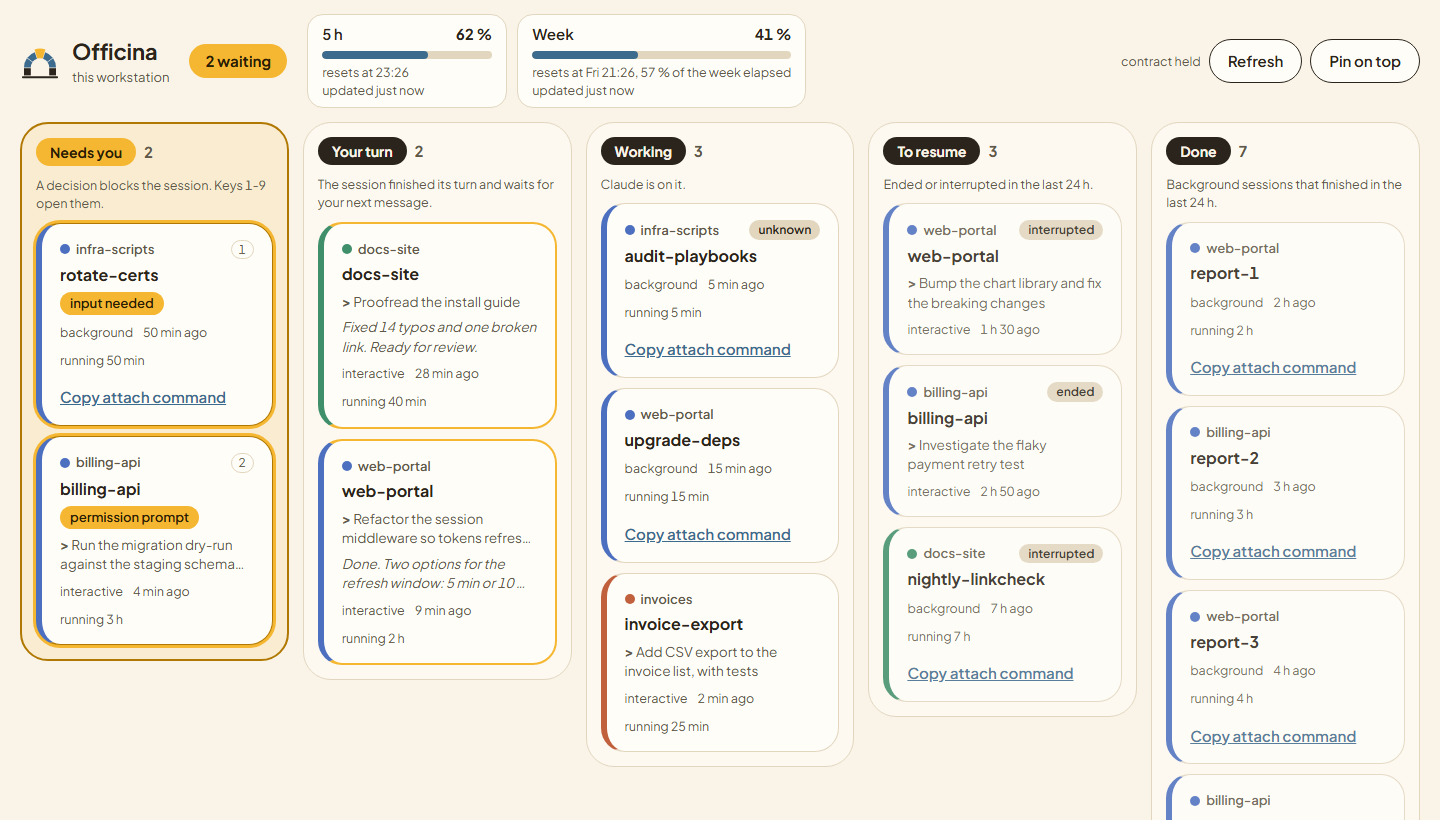
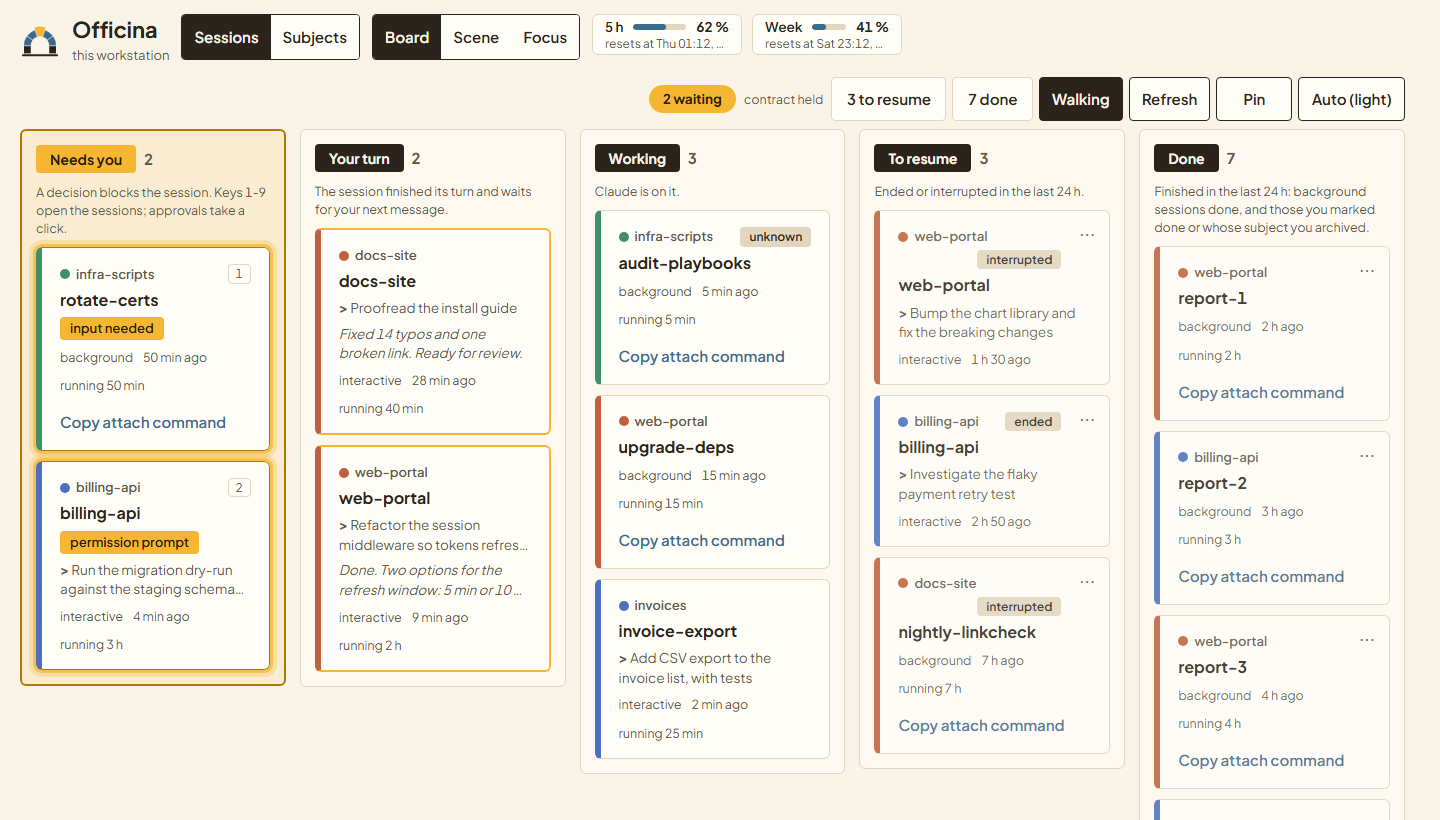
docs(ui): describe moving ended cards, the one header, wide screens and the minimum size
README: the Done column's new meaning, how to move an ended card (drag,
menu, Undo, Restore), the minimum window size, wide screens, the header
the same in every view with To resume and Done in it, the transitions,
the docked session file. The README assets are rendered again from the
current build. CHANGELOG [Unreleased] records story 4.15.

Changed region(s): [[0.0, 0.0, 0.9688, 1.0]]

diff --git a/README.md b/README.md
@@ -64,7 +64,11 @@ Claude Code updates itself, so Officina checks, for each version it runs under, 
 | **Your turn** | An interactive session finished its turn and waits for your next message. Even when it asked you something in plain text, Claude Code reports it as idle, so it lands here, never in Done. |
 | **Working** | Claude is on it. A session whose state Officina cannot tell shows here with an `unknown` badge. |
 | **To resume** | Ended, stopped or interrupted in the last 24 hours. |
-| **Done** | Background sessions that finished in the last 24 hours. Collapsed beyond five. |
+| **Done** | Finished in the last 24 hours: background sessions Claude Code reports done, and sessions you marked done or whose subject you archived, each tagged so. Collapsed beyond five. |
+
+### Moving an ended card
+
+An ended card can be dragged onto **Done** (you mark it done), back onto **To resume**, or onto the **Discard** target that shows at the bottom of the window while you drag, for a session that was never real work, a ten-second test for instance. Escape cancels a drag. The card's menu, at its top right, does the same from the keyboard: Enter or Down opens it, the arrows move, Enter chooses, Escape closes it. A note then says what was done, with **Undo**; after a menu choice the focus goes to it, and back to the card after an undo. Your verdict is recorded in the registry, never inferred: it covers what the session did before it, so a session that comes back to life is placed by its own state again. A discarded session leaves the board and the scene; **Show archived subjects and discarded sessions** in the Subjects view lists it with **Restore**. A card in Done because its subject was archived goes back to To resume by reopening that subject, which you archive again from the Subjects view. Live cards do not move: their column is what Claude Code reports.
 
 ### Bringing a session to the front
 
@@ -127,7 +131,7 @@ While the quota has no fresh data, `officina doctor` prints the whole `"statusLi
 
 ### Starting the board
 
-Run `officina-app.exe`. A second launch focuses the existing window. Keep it on a second screen, or press **Pin on top**. The window title shows `Officina (2 waiting)` whenever something waits on you.
+Run `officina-app.exe`. A second launch focuses the existing window. Keep it on a second screen, or press **Pin** to keep it on top. The window cannot be made smaller than 1140 x 820: the size that keeps the header on two lines and the scene's base floor whole. On a wide screen the board shows cards side by side in each column, and the Subjects and Relay views keep to a readable width. The window title shows `Officina (2 waiting)` whenever something waits on you.
 
 | Key | Action |
 |---|---|
@@ -495,7 +499,7 @@ v0.4 draws the board's sessions as the employees of a small company.
 
 ### Board, Scene and Focus
 
-The window's first view is now called **Sessions**; it has three modes, **Board**, **Scene** and **Focus**, chosen in the header's mode switch. `m` switches between Board and Scene, `f` turns Focus on and, pressed again, brings back the mode you had (a held key switches once); `m` from Focus leaves it for the other of Board and Scene. **Board** stays the default until you have chosen Scene for ten working days; the mode you choose is kept for the next start, Focus included. Digit keys 1 to 9 open the Needs you sessions in every mode. `m`, `f` and the digits act in the Sessions view only: in the Subjects view, `f` still sets a triage verdict. The alert band and the banners stay above the sessions area in every mode. In Scene mode the header keeps to one line, so the scene keeps its height.
+The window's first view is now called **Sessions**; it has three modes, **Board**, **Scene** and **Focus**, chosen in the header's mode switch. `m` switches between Board and Scene, `f` turns Focus on and, pressed again, brings back the mode you had (a held key switches once); `m` from Focus leaves it for the other of Board and Scene. **Board** stays the default until you have chosen Scene for ten working days; the mode you choose is kept for the next start, Focus included. Digit keys 1 to 9 open the Needs you sessions in every mode. `m`, `f` and the digits act in the Sessions view only: in the Subjects view, `f` still sets a triage verdict. The alert band and the banners stay above the sessions area in every mode. The header is the same in every view and mode, the same controls at the same places, on one line on a Full HD screen, so the scene keeps its height. Views, modes, cards, menus and panels fade or slide in for about a sixth of a second as they come and go; with Windows' reduced-motion setting on, they appear at once.
 
 **Focus** hides the board and the scene and lists only what waits for you: first "N approvals waiting" when there are some, which opens them in Board mode; then the Needs you sessions, numbered as on the board and marked "Alert" with the cause for one in alert ("last known" while its data is unknown); then the Your turn sessions; then how many sessions are working. A row brings its session to front as a board card does, with the outcome in the row. Nothing in Focus moves: no scene, no halo, no animation.
 
@@ -515,15 +519,15 @@ Nothing moves while nothing changes: an employee moves only when the board chang
 
 When the board changes an employee's place, it gets up and walks there along the corridors, through its room's door, at a walking pace, and sits down when its place is a seat; its halo waits until it has arrived. A new session comes in through the entrance, fading in, and walks to its place; an ended one walks out through the entrance and fades. Once everyone has arrived nothing moves, and the scene does no work until the next change. Opening the window, or switching to Scene, shows everyone already at their place; so does a window brought back from behind another one.
 
-The header's **Walking** toggle, shown in Scene mode and kept for the next start, turns walking off: an employee then glides straight to its new place in about a third of a second, and a new or ended session fades in or out where it stands. With the system's reduced-motion setting on, every employee is placed at once and nothing fades. Walking is on by default; the workstation's CPU measurement of the release decides whether it stays so.
+The header's **Walking** toggle, kept for the next start, turns walking off: an employee then glides straight to its new place in about a third of a second, and a new or ended session fades in or out where it stands. With the system's reduced-motion setting on, every employee is placed at once and nothing fades. Walking is on by default; the workstation's CPU measurement of the release decides whether it stays so.
 
 ### Acting from the scene
 
-Every employee is a button: hover it or tab to it and its name shows above it. Click it, or press Enter or Space, and its **file** opens at the right edge of the sessions area, over the scene without resizing it: the project (and "high priority" when the floor file says so), its number when it is one of the first nine waiting, where it is, its state with what it waits on, since when it waits ("since unknown" when Officina did not see the wait start), why it is in alert ("last known" while the data is unknown), its subject, its last prompt and the head and tail of its last answer. The file's actions are the board card's, with the same outcomes: **Bring to front** (it has the focus, so Enter then Enter brings a session forward from the keyboard), "Wrong window?", and "Copy attach command" for a background session. A session waiting on a relay approval shows the request and an **Open in Board** button: approvals are approved on their cards, with the pointer. Escape closes the file and puts the focus back on the employee, wherever it now stands; the file closes by itself when the session leaves the board.
+Every employee is a button: hover it or tab to it and its name shows above it. Click it, or press Enter or Space, and its **file** opens at the right edge of the sessions area, beside the scene when the window leaves room for it (on a wide screen), over it otherwise, never resizing it: the project (and "high priority" when the floor file says so), its number when it is one of the first nine waiting, where it is, its state with what it waits on, since when it waits ("since unknown" when Officina did not see the wait start), why it is in alert ("last known" while the data is unknown), its subject, its last prompt and the head and tail of its last answer. The file's actions are the board card's, with the same outcomes: **Bring to front** (it has the focus, so Enter then Enter brings a session forward from the keyboard), "Wrong window?", and "Copy attach command" for a background session. A session waiting on a relay approval shows the request and an **Open in Board** button: approvals are approved on their cards, with the pointer. Escape closes the file and puts the focus back on the employee, wherever it now stands; the file closes by itself when the session leaves the board.
 
 Tab walks reception, the decision office's queue and its register, the alert room, the offices, the lounge and More offices, in that order; the arrow keys move between the employees of one room and stop at its edge. Digit keys 1 to 9 bring the nth Needs you session to front, as on the board, alerted ones included. Where a room holds more than its places (the register's "+N more", an office's "+n" chip, a full lounge, reception or alert room, More offices), its button opens a list of those sessions in board order; each row opens that session's file, and Escape steps back to the list, then to the room's button.
 
-Ended sessions leave the scene. The line in the scene's bottom-left corner counts them, "N to resume" and "N done in 24 h" (the board's Done window), and either opens Board mode, where they are. The quota gauges and the relay's state stay in the header, in every mode.
+Ended sessions leave the scene. The header counts them in every view and mode, "N to resume" and "N done" (within the board's Done window, which their tooltips name), and either opens Board mode on its column. The quota gauges and the relay's state stay in the header too.
 
 ### The alert
 

diff --git a/CHANGELOG.md b/CHANGELOG.md
@@ -8,6 +8,19 @@ project uses [Semantic Versioning](https://semver.org/).
 
 ### Added
 
+- Moving an ended card (v0.4, story 4.15): a To resume or Done card can be
+  dragged onto Done, back onto To resume, or onto a Discard target shown
+  while it is dragged, for a session that was never real work; its menu
+  does the same from the keyboard. Each is the author's verdict, recorded
+  in the registry and covering only what the session did before it; a note
+  offers Undo. Discarded sessions leave the board and the scene and are
+  listed, with Restore, beside the archived subjects.
+- The window's minimum size, 1140 x 820: the header on two lines and the
+  scene's base floor whole at its smallest scale (story 4.15).
+- Short fades and slides (about 160 ms) when views, modes, cards, menus,
+  panels, the alert band and the header's chips come and go; none under
+  reduced motion (story 4.15).
+
 - Scene mode (v0.4, in progress): the Sessions view draws the company,
   furnished, scaled to the window, every live session an employee placed
   at once at its place (reception, the decision office's queue with its
@@ -337,6 +350,19 @@ project uses [Semantic Versioning](https://semver.org/).
 
 ### Changed
 
+- Sober corners: controls round 4 px and surfaces 6 px, from one radius
+  family in `app.css`; pills are kept for count badges (story 4.15).
+- One header in every view and mode: the same quota gauges (150 px wide,
+  two lines), buttons and chips at the same places; the Walking toggle is
+  shown everywhere; "Pin on top" reads "Pin". To resume and Done are
+  counted in the header, opening Board mode on their column, instead of
+  under the scene (story 4.15).
+- Wide screens: a board column shows cards side by side when it has the
+  room; the Subjects and Relay views keep to a reading width, centred; the
+  session file docks beside the scene when the window leaves room for it
+  (story 4.15).
+- No shadow under the scene's floor (story 4.15).
+
 - `officina doctor` prints complete blocks to paste, never fragments to
   merge by hand. For the hooks, the whole `"hooks"` key of the user
   settings with Officina's registrations merged in: every hook already
@@ -617,6 +643,11 @@ project uses [Semantic Versioning](https://semver.org/).
   processes it starts keep their own state.
 
 ### Fixed
+
+- Archiving a subject in the Subjects view left its ended session in To
+  resume: the board now reads the subject's status, so the session moves
+  to Done, tagged "subject archived", and comes back if the subject is
+  reopened (story 4.15).
 
 - `officina doctor` no longer prints a statusline that tees Officina's
   `quota write` into itself when the existing statusline already runs it.
